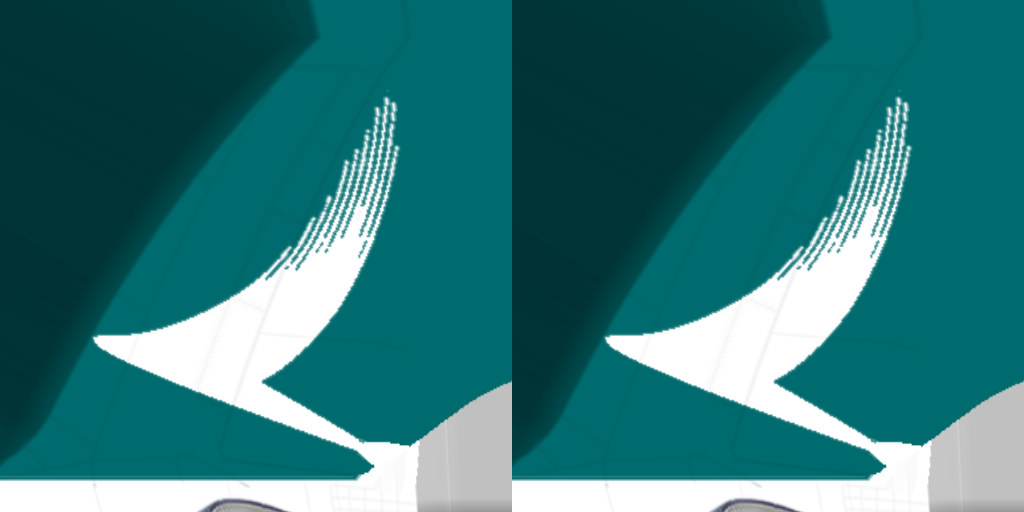
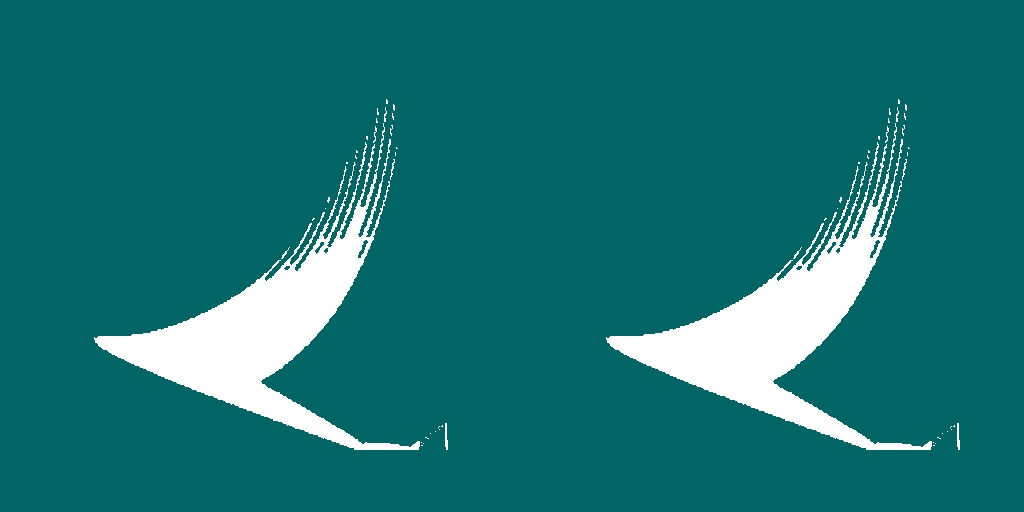
Flights: language toggle inside detail pages; flat teal Cathay fin
- Every detail page (hangar explorer, log, records, lists) gets its own EN / 中 toggle in the header: the page is a full-screen overlay that hid the top-bar toggle
- Cathay Pacific fin texture flattened to teal with the white brushstroke; the source sheet's dark shading and fuselage spill showed as a black patch

Claude-Session: https://claude.ai/code/session_01DPTgPf9WxpchQEe6ifFgUC

diff --git a/flights.html b/flights.html
@@ -10,8 +10,8 @@
 <link rel="preconnect" href="https://fonts.googleapis.com">
 <link href="https://fonts.googleapis.com/css2?family=Chakra+Petch:wght@400;500;600;700&family=JetBrains+Mono:wght@400;600&family=Pinyon+Script&family=Source+Sans+3:wght@400;600&display=swap" rel="stylesheet">
 <link rel="stylesheet" href="https://cdnjs.cloudflare.com/ajax/libs/leaflet/1.9.4/leaflet.min.css" crossorigin="">
-<script src="aviation.js?v=202610042330"></script>
-<script src="fleet3d.js?v=202610042330"></script>
+<script src="aviation.js?v=202610050010"></script>
+<script src="fleet3d.js?v=202610050010"></script>
 <style>
   /* Flight log: a private page (same travel password and encrypted file as travel.html) in a "cockpit HUD" look, dark or light (site-wide setting). */
   :root {
@@ -356,6 +356,7 @@
   a.rk.dl:hover span:first-child { color: var(--cyan); }
   /* Detail view: one airline, airport, country, aircraft type, route, or a list of them */
   .detail { position: fixed; inset: 0; z-index: 1500; overflow-y: auto; overscroll-behavior: contain; background: var(--bg); padding: 0 clamp(1rem, 2vw, 2rem) 2rem; }
+  .detail-lang .lang-btn { padding: 0.3rem 0.65rem; font-size: 0.78rem; }
   .detail-top { position: sticky; top: 0; z-index: 5; display: flex; align-items: center; gap: 0.8rem; padding: 0.7rem 0; background: var(--glass); backdrop-filter: blur(10px); -webkit-backdrop-filter: blur(10px); border-bottom: 1px solid var(--line); margin: 0 calc(-1 * clamp(1rem, 2vw, 2rem)) 1.2rem; padding-left: clamp(1rem, 2vw, 2rem); padding-right: clamp(1rem, 2vw, 2rem); }
   .detail-top .crumb { flex: 1; min-width: 0; display: flex; align-items: baseline; gap: 0.6rem; flex-wrap: wrap; }
   .detail-top .crumb .kicker::before { display: none; }
@@ -536,7 +537,7 @@
 
 <script src="https://cdnjs.cloudflare.com/ajax/libs/leaflet/1.9.4/leaflet.min.js" crossorigin=""></script>
 <script src="site-lang.js"></script>
-<script src="map-base.js?v=202610042330"></script>
+<script src="map-base.js?v=202610050010"></script>
 <script>
 // ─────────────────────────────────────────────────────────────────────────────
 // Data: the flights live inside travel/travel.enc (AES-256-GCM, key derived from the
@@ -1146,6 +1147,7 @@ function renderDetail() {
     : `<div class="hud log"><table><thead><tr><th>${esc(zh ? '日期' : 'Date')}</th><th>${esc(zh ? '航班' : 'Flight')}</th><th>${esc(zh ? '航线' : 'Route')}</th><th class="col-x">${esc(zh ? '航空公司' : 'Airline')}</th><th>${esc(zh ? '机型' : 'Aircraft')}</th><th class="num">${esc(zh ? '距离' : 'Distance')}</th><th class="num col-x">${esc(zh ? '时长' : 'Time')}</th></tr></thead><tbody>${rows.length ? rowsHtml(rows, false) : `<tr><td colspan="7" class="empty">${esc(tr('none'))}</td></tr>`}</tbody></table></div>`;
   el.innerHTML = `<div class="detail-top"><button type="button" class="icon-btn" id="detail-back" aria-label="${esc(tr('back'))}" title="${esc(tr('back'))}">←</button>
       <div class="crumb"><span class="kicker">${esc(d.kind === 'list' ? tr('details') : tr(DETAIL_KINDS[d.kind]))}</span><b>${esc(title)}</b></div>
+      <div class="lang-toggle detail-lang" role="group" aria-label="Language"><button type="button" class="lang-btn${LANG === 'en' ? ' active' : ''}" data-lang="en">EN</button><button type="button" class="lang-btn${LANG === 'zh' ? ' active' : ''}" data-lang="zh">中</button></div>
       <a class="icon-btn" href="${esc(location.hash)}" target="_blank" rel="noopener" title="${esc(tr('newTab'))}" aria-label="${esc(tr('newTab'))}"><svg viewBox="0 0 24 24" fill="none" stroke="currentColor" stroke-width="2" stroke-linecap="round"><path d="M15 3h6v6M21 3l-9 9M19 13v6a2 2 0 0 1-2 2H5a2 2 0 0 1-2-2V7a2 2 0 0 1 2-2h6"/></svg></a></div>
     <div class="detail-head"><div class="${d.kind === 'al' ? 'al-head' : ''}">${emblem}<div><h2>${esc(title)}</h2><p class="sub">${esc(sub)}${esc(scopeNote)}</p></div></div></div>
     ${d.kind === 'al' && A.airlineInfo(d.key) ? (info => `<div class="hud al-profile"><div class="row"><b>${zh ? '成立' : 'Founded'}</b>${esc(info.founded)}</div><div class="row"><b>${zh ? '基地' : 'Base'}</b>${esc(info.base)}</div><div class="row"><b>${zh ? '联盟' : 'Alliance'}</b>${esc(info.alliance)}</div><p>${esc(zh ? info.zh : info.en)}</p></div>`)(A.airlineInfo(d.key)) : ''}
@@ -1181,7 +1183,7 @@ document.addEventListener('keydown', e => { if (e.key === 'Escape' && $('#detail
 // ── Language ──
 function applyLang(lang) {
   LANG = lang; window.SiteLang?.set(lang);
-  document.querySelectorAll('#lang-toggle .lang-btn').forEach(b => b.classList.toggle('active', b.dataset.lang === lang));
+  document.querySelectorAll('.lang-toggle .lang-btn').forEach(b => b.classList.toggle('active', b.dataset.lang === lang));
   document.documentElement.lang = lang === 'zh' ? 'zh-CN' : 'en';
   document.querySelectorAll('[data-en][data-zh]').forEach(el => { el.textContent = el.getAttribute('data-' + lang); });
   document.querySelectorAll('[data-tip-en]').forEach(el => { el.title = el.getAttribute('data-tip-' + lang); });
@@ -1191,7 +1193,7 @@ function applyLang(lang) {
   paintThemeBtn();
   if (!$('#app').hidden) renderAll();
 }
-$('#lang-toggle').addEventListener('click', e => { const b = e.target.closest('.lang-btn'); if (b && b.dataset.lang !== LANG) applyLang(b.dataset.lang); });
+document.addEventListener('click', e => { const b = e.target.closest('.lang-toggle .lang-btn'); if (b && b.dataset.lang !== LANG) applyLang(b.dataset.lang); });   // top bar and detail-page toggles
 
 // ── Theme: the same setting as the rest of the site (localStorage 'site-theme') ──
 const SUN_I = '<svg viewBox="0 0 24 24" fill="none" stroke="currentColor" stroke-width="2" stroke-linecap="round" aria-hidden="true"><circle cx="12" cy="12" r="4"/><path d="M12 2v2M12 20v2M4.9 4.9l1.4 1.4M17.7 17.7l1.4 1.4M2 12h2M20 12h2M4.9 19.1l1.4-1.4M17.7 6.3l1.4-1.4"/></svg>';
